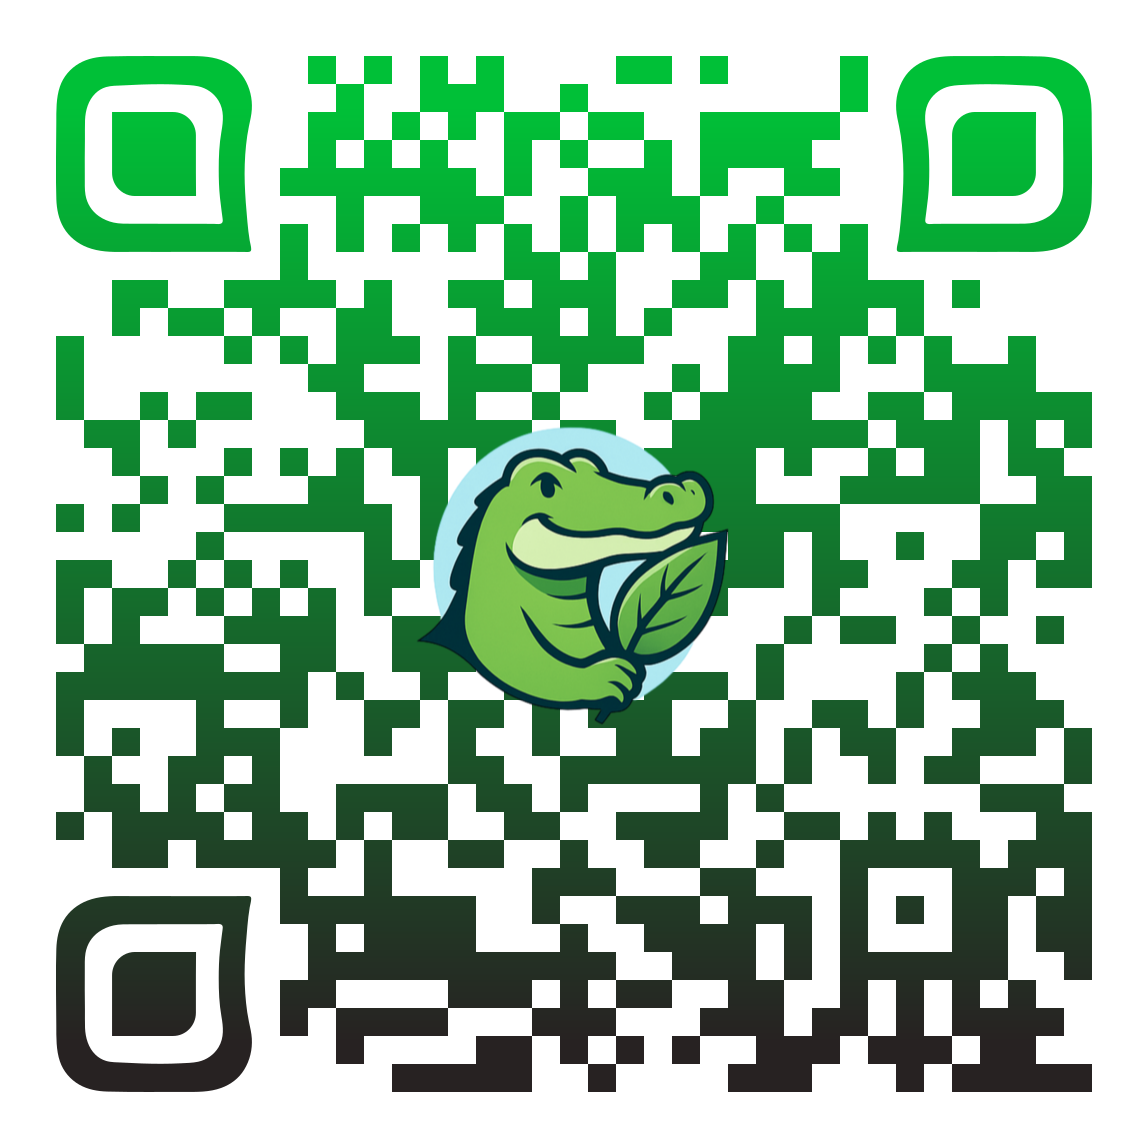
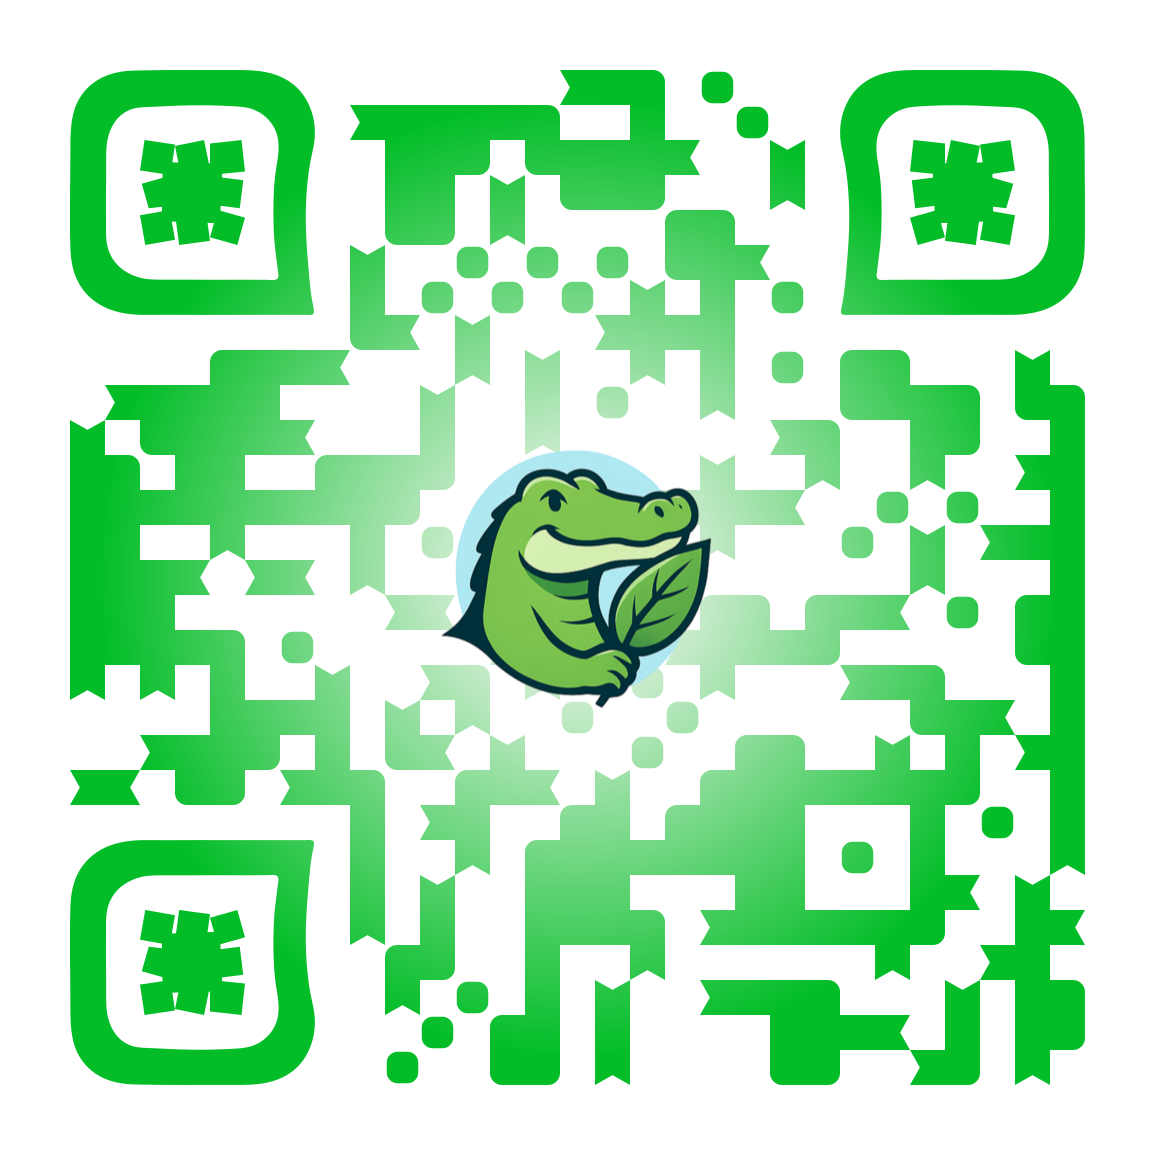
Update Mobile app Link

diff --git a/ecolafaek_public_dahboard/pages/download.js b/ecolafaek_public_dahboard/pages/download.js
@@ -23,9 +23,9 @@ export default function DownloadApp() {
 
   // App download links
   const downloadLinks = {
-    android: "https://ajitonelson.itch.io/ecolafaek",
+    android: "https://bit.ly/ecolafaek",
     ios: "/uc",
-    direct: "https://ajitonelson.itch.io/ecolafaek",
+    direct: "https://bit.ly/ecolafaek",
   };
 
   return (
@@ -116,25 +116,17 @@ export default function DownloadApp() {
                       <Download className="w-5 h-5" />
                       Download for Android
                     </a>
-                    
-                    {/* Installation Tutorial Video */}
-                    <div className="mt-6">
-                      <h4 className="text-sm font-medium text-gray-900 mb-3">
-                        📱 How to Download & Install
-                      </h4>
-                      <div className="relative w-full max-w-sm mx-auto" style={{ aspectRatio: '9/16' }}>
-                        <iframe
-                          src="https://www.youtube.com/embed/lKbzUADEsoo"
-                          title="How to Download and Install EcoLafaek App"
-                          style={{ border: 0 }}
-                          allow="accelerometer; autoplay; clipboard-write; encrypted-media; gyroscope; picture-in-picture; web-share"
-                          allowFullScreen
-                          className="w-full h-full rounded-lg shadow-sm"
-                        ></iframe>
-                      </div>
-                      <p className="text-xs text-gray-500 mt-2 text-center">
-                        Step-by-step installation guide
-                      </p>
+
+                    <div className="mt-4">
+                      <a
+                        href="https://docs.ecolafaek.com/mobile-app/android.html"
+                        target="_blank"
+                        rel="noopener noreferrer"
+                        className="text-emerald-600 hover:text-emerald-800 text-sm font-medium inline-flex items-center"
+                      >
+                        Installation Guide
+                        <ChevronRight className="w-4 h-4 ml-1" />
+                      </a>
                     </div>
                   </div>
                 ) : (
